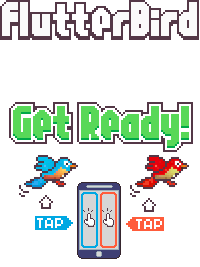
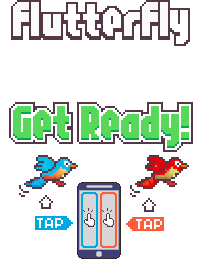
some more quick renaming

Changed region(s): [[0.0, 0.0, 1.0, 0.1798]]

diff --git a/lib/main.dart b/lib/main.dart
@@ -73,7 +73,7 @@ Future<void> main() async {
   runApp(
       OKToast(
         child: MaterialApp(
-          title: "Flutter Bird",
+          title: "Flutter Fly",
           navigatorKey: locator<NavigationService>().navigatorKey,
           theme: ThemeData(
             // Define the default brightness and colors.
